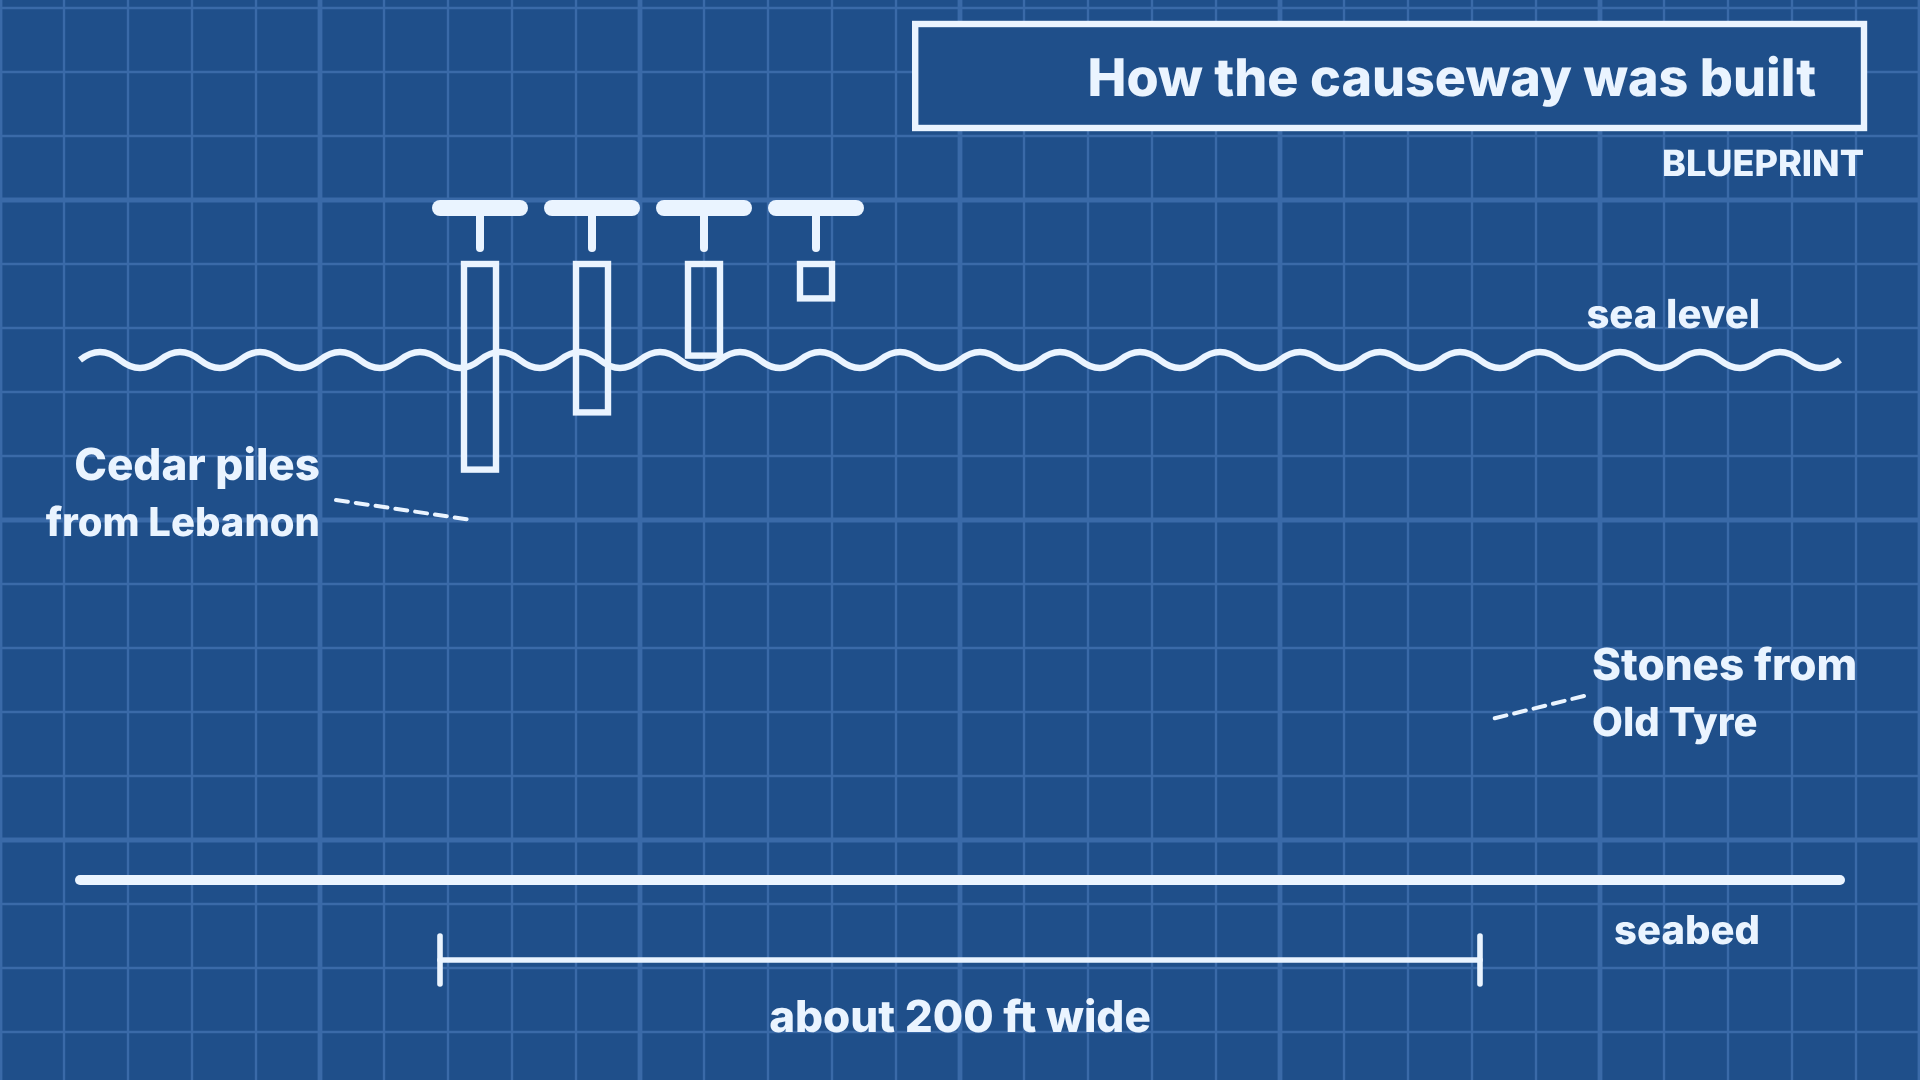
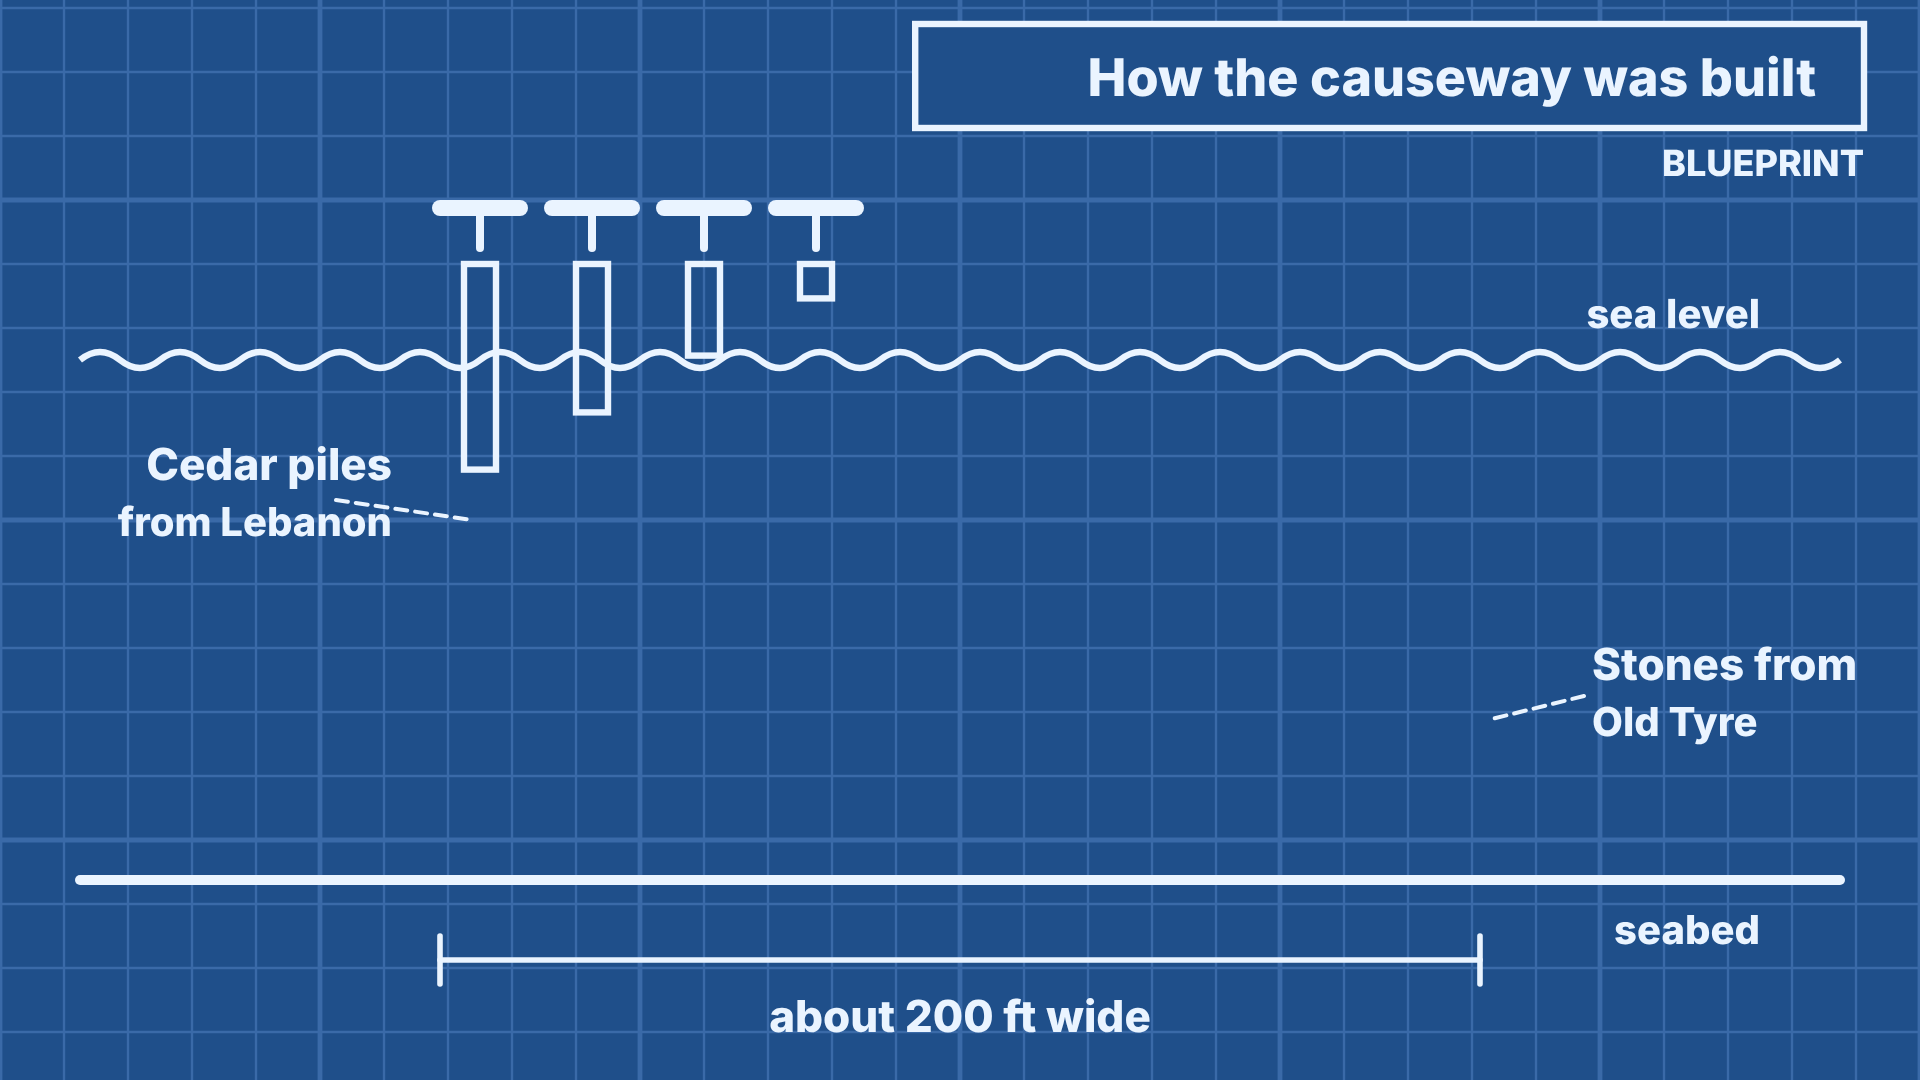
Tyre: static camera on blueprint shots, crane diagram labels
Claude-Session: https://claude.ai/code/session_017MZkjKDMev6tKpnRG7nu5t

Changed region(s): [[0.0, 0.3972, 0.2188, 0.5194]]

diff --git a/episodes/06-tyre/shots.js b/episodes/06-tyre/shots.js
@@ -176,7 +176,7 @@ module.exports = {
     // The engineers' war
     { sfx: [{ type: "hammer", every: 0.55, gain: 0.8 }],
       anim: (t, sec) => t > 0.45 ? { fx: [{ type: "blueprint", mode: "piles", p: ease(seg(t, 0.47, 0.95)), title: "How the causeway was built" }], characters: [] } : ({ fx: [{ type: "mole", p: 0.12 + 0.13 * t }, workers(116, 140 + 30 * t, { perRow: 3 }), { type: "splash", x: 132 + 28 * t, y: 214, k: 0.5 + 0.3 * Math.abs(Math.sin(sec * 2)) }], characters: [ch("Worker", { ...C.worker, flip: true }, 20 + 50 * t, { scale: 0.48, ground: 300 }), ch("Worker", { ...C.worker, flip: true, face: "neutral" }, 70 + 45 * t, { scale: 0.46, ground: 296 })] }),
-      section: "The engineers' war", background: "tyresea", camera: "slow pan right", text: "Building the causeway",
+      section: "The engineers' war", background: "tyresea", camera: "static", text: "Building the causeway",
       fx: [{ type: "mole", p: 0.2 }, workers(116, 150, { perRow: 3 })],
       characters: [ch("Worker", { ...C.worker, flip: true }, 40, { scale: 0.48, ground: 300 }), ch("Worker", { ...C.worker, flip: true, face: "neutral" }, 95, { scale: 0.46, ground: 296 })],
       note: "Soldiers carry stones down the beach and dump them into the sea; the causeway starts to grow.",
@@ -268,14 +268,14 @@ module.exports = {
       characters: [ch("Soldier", { ...C.phalanx, prop: "none", face: "surprised", pose: "walk", flip: true }, 290, { scale: 0.3, ground: 204, shiver: true }), ch("Soldier", { ...C.phalanx, prop: "none", face: "surprised", pose: "walk" }, 236, { scale: 0.28, ground: 204, shiver: true })],
       note: "Tyrians pour glowing sand from the walls; a Macedonian soldier hops about, shaking it out of his armor (cartoon gag, nothing graphic).",
       narration: "The Tyrians grew desperate, and creative. They heated sand in bronze shields until it glowed, then poured it down on the attackers. It slipped under armor, and men tore off their gear just to get it out." },
-    { section: "Start again, bigger", background: "tyresea", camera: "slow pan right",
+    { section: "Start again, bigger", background: "tyresea", camera: "static",
       fx: [{ type: "mole", p: 0.9, wide: true }, { type: "ship", x: 360, y: 266, sc: 0.28, color: "#5a4a3a" }, onWall()],
       note: "Ships anchored by the walls; Tyrian divers in the water cut the anchor ropes.",
       characters: [],
       anim: t => t > 0.3 ? { fx: [{ type: "blueprint", mode: "chains", title: "Rope vs iron chain" }] } : {},
       narration: "Tyrian divers swam out and cut the anchor ropes of Alexander's ships, so he switched to iron chains. Every trick only slowed him down." },
 
-    { id: "cranes", section: "Start again, bigger", background: "tyresea", camera: "slow zoom in", text: "Cranes on ships",
+    { id: "cranes", section: "Start again, bigger", background: "tyresea", camera: "static", text: "Cranes on ships",
       anim: t => t < 0.25 ? { fx: [{ type: "mole", p: 0.9, wide: true }, onWall({ faces: ["surprised"] }), { type: "craneship", x: 360, y: 252, sc: 0.3, lift: ease(seg(t, 0.02, 0.25)) }] }
         : t < 0.58 ? { fx: [{ type: "blueprint", mode: "crane", p: ease(seg(t, 0.28, 0.55)), title: "Clearing the boulders" }] }
         : { fx: [{ type: "mole", p: 0.9, wide: true }, onWall({ faces: ["surprised"] }), { type: "ramship", x: 420 - 30 * ease(seg(t, 0.55, 1)), y: 250, sc: 0.32, push: Math.abs(Math.sin(t * 30)) }] },

diff --git a/index.html b/index.html
@@ -945,13 +945,13 @@ Object.assign(FX,{
         s+=`<rect x="${x-4}" y="${top}" width="8" height="${(bot-top).toFixed(1)}" fill="none" stroke="${W}" stroke-width="1.6"/>`;if(depth>0&&depth<1)s+=L(x-10,top-14,x+10,top-14,4)+L(x,top-14,x,top-4,2)}
       const fill=Math.max(0,p*1.4-.4);if(fill>0){const fy=bed-fill*(bed-sea+6);s+=`<path d="M110,${bed} L110,${fy} L370,${fy} L370,${bed}Z" fill="none" stroke="${W}" stroke-width="1.4" stroke-dasharray="3 3"/>`;for(let i=0;i<30;i++){const cx=116+((i*53)%250),cy=bed-6-((i*37)%Math.max(6,(bed-fy-8)));s+=`<circle cx="${cx}" cy="${cy}" r="4" fill="none" stroke="${W}" stroke-width="1.2"/>`}}
       s+=L(110,270,370,270,1.4)+L(110,264,110,276,1.4)+L(370,264,370,276,1.4)+T(240,288,"about 200 ft wide",11);
-      s+=T(80,150,"Cedar piles",11,"end")+T(80,164,"from Lebanon",10,"end")+L(84,155,118,160,1,"3 2")+T(398,200,"Stones from",11,"start")+T(398,214,"Old Tyre",10,"start")+L(396,204,372,210,1,"3 2");}
+      s+=T(98,150,"Cedar piles",11,"end")+T(98,164,"from Lebanon",10,"end")+L(84,155,118,160,1,"3 2")+T(398,200,"Stones from",11,"start")+T(398,214,"Old Tyre",10,"start")+L(396,204,372,210,1,"3 2");}
     if(mode==="crane"){const sea=150,bed=270;s+=wave(sea)+L(20,bed,460,bed,2.5);
       s+=`<path d="M120,${sea-6} L300,${sea-6} Q290,${sea+24} 260,${sea+28} L150,${sea+28} Q124,${sea+20} 120,${sea-6}Z" fill="none" stroke="${W}" stroke-width="2"/>`;
-      s+=L(220,sea-6,330,60,3)+L(220,sea-6,220,90,2.5)+L(220,90,330,60,1.4);
-      const ry=bed-16-p*(bed-16-110);s+=L(330,60,330,ry-14,1.4)+`<path d="M312,${ry} Q312,${ry-16} 330,${ry-18} Q350,${ry-16} 348,${ry} Q330,${ry+12} 312,${ry}Z" fill="none" stroke="${W}" stroke-width="2"/>`;
+      s+=L(220,sea-6,330,86,3)+L(220,sea-6,220,104,2.5)+L(220,104,330,86,1.4);
+      const ry=bed-16-p*(bed-16-122);s+=L(330,86,330,ry-14,1.4)+`<path d="M312,${ry} Q312,${ry-16} 330,${ry-18} Q350,${ry-16} 348,${ry} Q330,${ry+12} 312,${ry}Z" fill="none" stroke="${W}" stroke-width="2"/>`;
       for(const bx of[380,410,440])s+=`<path d="M${bx-14},${bed} Q${bx-14},${bed-18} ${bx},${bed-20} Q${bx+14},${bed-18} ${bx+14},${bed}Z" fill="none" stroke="${W}" stroke-width="1.6"/>`;
-      s+=T(120,90,"Crane on a ship",12,"start")+T(410,bed-46,"Boulders dropped",10)+T(410,bed-33,"by the Tyrians",10)+T(322,70,"rope + pulley",10,"end");}
+      s+=T(110,104,"Crane on a ship",12,"start")+T(410,bed-46,"Boulders dropped",10)+T(410,bed-33,"by the Tyrians",10)+T(340,100,"rope + pulley",10,"start");}
     if(mode==="chains"){const sea=110,bed=250;s+=wave(sea)+L(20,bed,460,bed,2.5)+L(240,70,240,290,1.4,"6 4");
       for(const [cx,lab,ok] of [[130,"Rope: divers cut it",false],[350,"Iron chain: can't be cut",true]]){
         s+=`<path d="M${cx-60},${sea-4} L${cx+60},${sea-4} Q${cx+50},${sea+16} ${cx+30},${sea+18} L${cx-40},${sea+18} Q${cx-58},${sea+12} ${cx-60},${sea-4}Z" fill="none" stroke="${W}" stroke-width="2"/>`;
